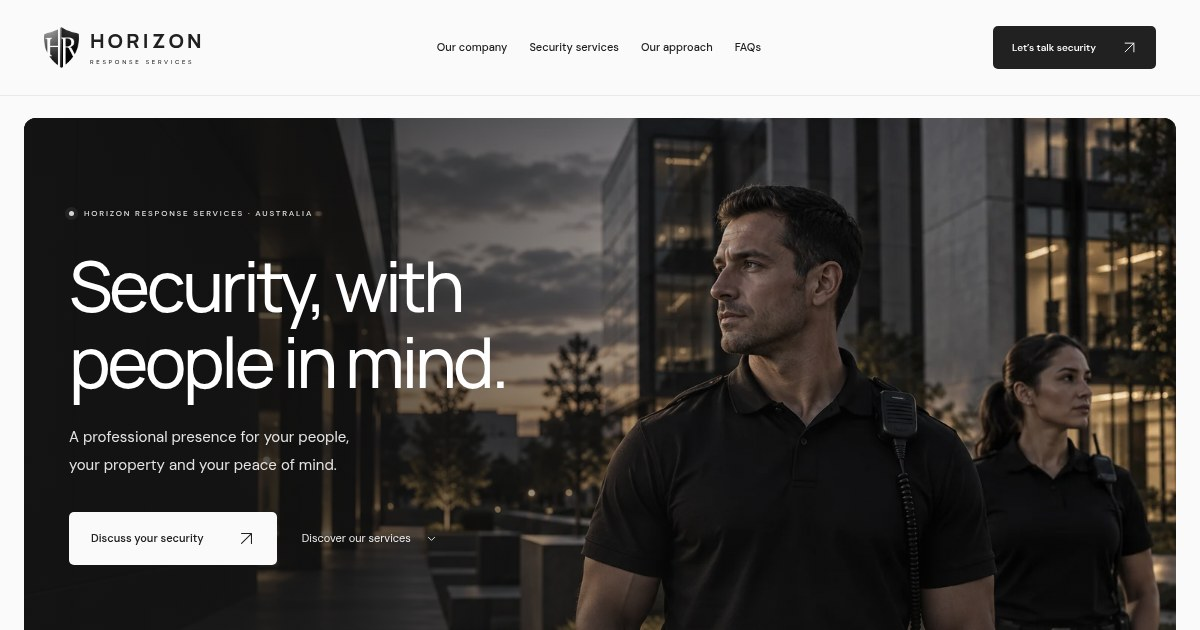
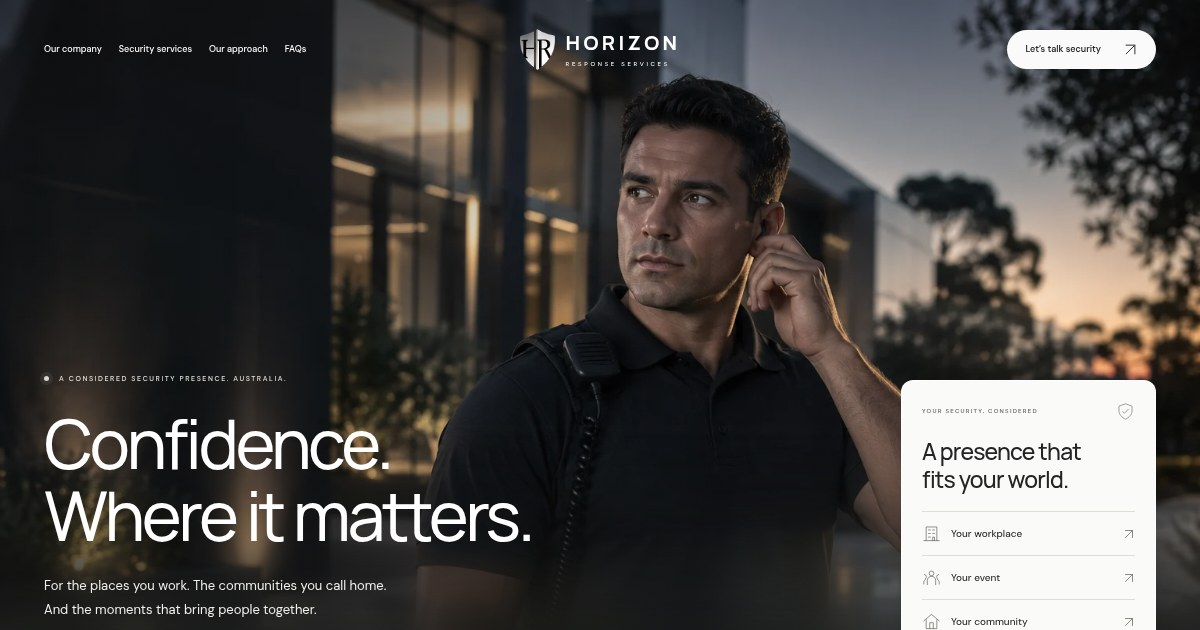
Build immersive portrait hero from reviewed motion reference

diff --git a/src/style.css b/src/style.css
@@ -25,3 +25,11 @@
 @media(max-width:700px){.hero{display:flex;flex-direction:column;min-height:0;background:#222}.hero-inner{order:1;padding:38px 24px 34px;background:#222}.hero-photo{position:relative;inset:auto;order:2;height:360px;object-position:68% 28%;z-index:0}.hero-shade{display:none}.hero-bottom{position:relative;order:3;left:auto;right:auto;bottom:auto;padding:20px 24px;background:#222;border-top:0}.hero h1{margin-top:24px}.hero-actions{margin-top:25px;gap:18px}.hero-inner>p{margin-top:20px}.hero-bottom>p{font-size:9px}}
 @media(max-width:370px){.hero-inner{padding:33px 20px 30px}.hero-photo{height:320px}.hero-bottom{padding:19px 20px}.hero-bottom>p{font-size:8px}}
 .privacy-promise p>span{color:#606060}
+/* Immersive hero: editorial portrait, low-set type and a useful service selector. */
+.site-header{position:fixed;inset:0 0 auto;height:100px;border-bottom:1px solid transparent;background:transparent;color:white;backdrop-filter:none;transition:background .3s,color .3s,border-color .3s}.site-header .header-inner{display:grid;grid-template-columns:1fr auto 1fr;gap:25px}.site-header .brand{grid-column:2;grid-row:1;justify-self:center}.site-header .brand>img{filter:invert(1)}.site-header .desktop-nav{grid-column:1;grid-row:1;justify-self:start;font-size:10px;gap:22px}.site-header .desktop-nav>a:hover{border-color:#ddd}.site-header .header-cta{grid-column:3;grid-row:1;justify-self:end;background:#fafafa;color:#222;border-radius:25px;padding:12px 18px;font-size:9px;gap:22px}.site-header.scrolled{background:#fafafaf5;backdrop-filter:blur(16px);color:#202020;border-bottom-color:#e3e3e3}.site-header.scrolled .brand>img{filter:none}.site-header.scrolled .header-cta{background:#222;color:#fff}.immersive-hero{width:100%;max-width:none;margin:0;min-height:800px;height:100svh;max-height:1080px;border-radius:0;display:block;background:#1b1b1b}.immersive-hero .hero-photo{position:absolute;inset:0;width:100%;height:100%;object-position:57% 36%;z-index:-3;animation:portrait-drift 18s ease-in-out infinite alternate}.immersive-hero .hero-shade{position:absolute;inset:0;display:block;background:linear-gradient(0deg,#111b 0%,#1113 35%,transparent 60%,#1115),linear-gradient(90deg,#1115,transparent 55%);z-index:-2}.hero-atmosphere{position:absolute;bottom:0;left:0;right:0;height:47%;backdrop-filter:blur(16px);-webkit-backdrop-filter:blur(16px);background:linear-gradient(0deg,#30302a85,#30302a12);mask-image:linear-gradient(transparent,#000 70%);-webkit-mask-image:linear-gradient(transparent,#000 70%);z-index:-1;pointer-events:none}.immersive-hero .hero-inner{position:absolute;bottom:112px;left:max(64px,calc((100vw - 1280px)/2));right:auto;width:min(720px,58vw);padding:0;background:transparent;order:unset}.immersive-hero .hero-eyebrow{font-size:7px;letter-spacing:1.6px;color:#e0e0d9}.immersive-hero h1{font-size:clamp(60px,5.5vw,86px);letter-spacing:-4px;line-height:1.06;font-weight:450;max-width:none;margin-top:24px;animation:arrive 1s .2s both}.immersive-hero .hero-inner>p{font-size:14px;line-height:1.8;color:#efefeb;margin-top:23px;max-width:580px}.immersive-hero .hero-actions{margin-top:27px;gap:25px;flex-direction:row;align-items:center}.immersive-hero .hero-actions>.button{padding:16px 23px;border-radius:25px;font-size:11px;gap:26px}.immersive-hero .hero-text-link{font-size:10px;gap:11px}.hero-panel{position:absolute;right:max(64px,calc((100vw - 1280px)/2));bottom:110px;width:280px;padding:23px 23px 0;background:#fafaf9;color:#242424;border:1px solid #fff9;border-radius:12px;box-shadow:0 18px 50px #0002;animation:panel-enter .9s .5s both}.hero-panel-heading{display:flex;align-items:center;justify-content:space-between;gap:13px}.hero-panel-heading>span{font-size:6px;letter-spacing:1.25px;font-weight:550;color:#686860}.hero-panel-heading>svg{height:19px;width:19px;stroke-width:1.2;color:#7a7a70}.hero-panel>h2{font-size:25px;line-height:1.25;letter-spacing:-.8px;font-weight:500;margin-top:16px}.hero-panel-options{margin-top:21px}.hero-panel-options>button{display:flex;align-items:center;gap:10px;border-top:1px solid #deded7;padding:13px 0;width:100%;background:transparent;text-align:left;font-size:10px;font-weight:450}.hero-panel-options>button>svg:first-child{height:19px;width:19px;stroke-width:1.2;color:#68685e}.hero-panel-options>button>svg:last-child{height:12px;width:12px;margin-left:auto;color:#636359;transition:transform .2s}.hero-panel-options>button:hover>svg:last-child{transform:translate(2px,-2px)}.hero-panel-options>button:hover{color:#000}.hero-panel-footer{display:flex;align-items:center;justify-content:space-between;gap:13px;font-size:8px;font-weight:500;padding:17px 0;margin-top:6px;border-top:1px solid #deded7;color:#636359}.hero-panel-footer>svg{height:12px;width:12px}.hero-footnote{position:absolute;bottom:32px;left:max(64px,calc((100vw - 1280px)/2));right:max(64px,calc((100vw - 1280px)/2));display:flex;align-items:center;justify-content:space-between;color:#e4e4dc;gap:20px}.hero-footnote>span{font-size:6px;letter-spacing:1.6px}.hero-footnote>a{height:29px;width:29px;display:grid;place-items:center;border:1px solid #ffffff55;border-radius:50%}.hero-footnote>a>svg{height:13px;width:13px}.hero-motion-toggle{position:absolute;right:max(64px,calc((100vw - 1280px)/2));top:124px;background:#1115;color:#eee;border:1px solid #ffffff3d;backdrop-filter:blur(6px);border-radius:20px;padding:7px 11px;font-size:7px;display:flex;gap:7px;align-items:center;letter-spacing:.3px}.hero-motion-toggle>span{font-size:9px}.hero-motion-paused .hero-photo{animation-play-state:paused}.hero-motion-toggle[hidden]{display:none}@keyframes portrait-drift{from{transform:scale(1.015) translateX(0)}to{transform:scale(1.065) translateX(-.7%)}}@keyframes panel-enter{from{opacity:0;transform:translateY(24px) scale(.97)}to{opacity:1;transform:none}}
+@media(max-width:1200px){.site-header .desktop-nav{gap:17px;font-size:9px}.immersive-hero .hero-inner{left:44px;bottom:103px;width:61vw}.immersive-hero h1{font-size:68px;letter-spacing:-3.5px}.hero-panel{right:44px;bottom:103px;width:255px;padding:21px 20px 0}.hero-panel>h2{font-size:23px}.hero-panel-options{margin-top:17px}.hero-panel-options>button{padding:12px 0}.hero-footnote{left:44px;right:44px;bottom:28px}.hero-motion-toggle{right:44px}.immersive-hero .hero-inner>p{font-size:13px;max-width:500px}}
+@media(max-width:1000px){.site-header{height:90px}.site-header .desktop-nav{font-size:8px;gap:14px}.site-header .header-cta{font-size:8px;gap:14px;padding:11px 14px}.site-header .brand-words{font-size:19px;letter-spacing:3px}.immersive-hero{min-height:780px;max-height:1000px}.immersive-hero .hero-inner{left:32px;bottom:99px;width:60vw}.immersive-hero h1{font-size:60px;letter-spacing:-3px}.immersive-hero .hero-inner>p{font-size:12px;max-width:430px}.hero-panel{right:32px;bottom:99px;width:235px;padding:20px 19px 0}.hero-panel>h2{font-size:22px}.hero-panel-heading>span{font-size:5px;letter-spacing:1px}.hero-panel-options>button{font-size:9px;gap:9px}.hero-panel-footer{font-size:7px;padding:15px 0}.hero-footnote{left:32px;right:32px}.hero-motion-toggle{right:32px;top:111px}.immersive-hero .hero-actions>.button{font-size:10px;padding:15px 20px;gap:20px}}
+@media(min-width:701px) and (max-width:850px){.site-header .header-inner{grid-template-columns:auto 1fr auto;gap:20px}.site-header .brand{grid-column:1;justify-self:start}.site-header .desktop-nav{grid-column:2;justify-self:center;gap:15px}.site-header .desktop-nav>a:nth-child(3),.site-header .desktop-nav>a:nth-child(4){display:none}.immersive-hero h1{font-size:52px;letter-spacing:-2.7px}.immersive-hero .hero-inner{width:57vw}.immersive-hero .hero-inner>p{max-width:360px;font-size:11px}.immersive-hero .hero-inner>p>br{display:none}.hero-panel{width:218px;padding-inline:17px}.hero-panel>h2{font-size:21px}.hero-panel-options>button{font-size:8px}.immersive-hero .hero-text-link{font-size:8px}.immersive-hero .hero-actions{gap:17px}.immersive-hero .hero-actions>.button{font-size:9px;padding:14px 17px;gap:17px}}
+@media(max-width:700px){.site-header{height:80px}.site-header .header-inner{display:flex;justify-content:space-between;gap:20px}.site-header .brand{grid-column:auto;justify-self:auto}.site-header .brand-words{font-size:20px;letter-spacing:3.7px}.site-header .header-cta{display:none}.site-header .menu-toggle{border-color:#ffffff60;color:#fff;background:#2222;backdrop-filter:blur(5px)}.site-header .menu-toggle>span{background:#fff}.site-header.scrolled .menu-toggle{border-color:#ccc;background:transparent;backdrop-filter:none}.site-header.scrolled .menu-toggle>span{background:#222}.site-header:has(.mobile-nav.open){background:#fafafa;color:#222}.site-header:has(.mobile-nav.open) .brand>img{filter:none}.site-header:has(.mobile-nav.open) .menu-toggle{border-color:#ccc;background:transparent}.site-header:has(.mobile-nav.open) .menu-toggle>span{background:#222}.mobile-nav{top:80px;height:calc(100dvh - 80px);color:#222}.immersive-hero{display:block;width:100%;margin:0;border-radius:0;min-height:850px;height:100svh;max-height:1100px}.immersive-hero .hero-photo{position:absolute;inset:0;order:unset;height:100%;width:100%;object-position:65% center;z-index:-3}.immersive-hero .hero-shade{position:absolute;inset:0;display:block;z-index:-2;background:linear-gradient(0deg,#111d,#1117 37%,transparent 66%,#1115)}.hero-atmosphere{height:58%;backdrop-filter:blur(11px);-webkit-backdrop-filter:blur(11px);mask-image:linear-gradient(transparent,#000 65%);-webkit-mask-image:linear-gradient(transparent,#000 65%)}.immersive-hero .hero-inner{position:absolute;left:24px;right:24px;bottom:255px;width:auto;padding:0;order:unset;background:transparent;max-width:none}.immersive-hero .hero-eyebrow{font-size:6px;letter-spacing:1.1px;max-width:320px;line-height:1.7}.immersive-hero h1{font-size:clamp(40px,10.8vw,58px);letter-spacing:-2.4px;line-height:1.08;margin-top:19px;max-width:none}.immersive-hero .hero-inner>p{font-size:12px;line-height:1.8;margin-top:18px;max-width:325px}.immersive-hero .hero-inner>p>br{display:none}.immersive-hero .hero-actions{flex-direction:row;align-items:center;gap:20px;margin-top:22px}.immersive-hero .hero-actions>.button{font-size:10px;gap:18px;padding:14px 18px;border-radius:25px}.immersive-hero .hero-text-link{font-size:9px;gap:7px}.hero-panel{left:24px;right:24px;bottom:56px;width:auto;padding:17px 18px 0;border-radius:10px;animation-delay:.4s}.hero-panel-heading>span{font-size:6px;letter-spacing:1px}.hero-panel-heading>svg{width:17px;height:17px}.hero-panel>h2{font-size:20px;line-height:1.3;letter-spacing:-.6px;margin-top:7px}.hero-panel>h2>br{display:none}.hero-panel-options{display:grid;grid-template-columns:repeat(3,1fr);gap:10px;margin-top:14px}.hero-panel-options>button{display:flex;align-items:center;gap:7px;padding:10px 0;font-size:8px;border-top:1px solid #deded7}.hero-panel-options>button>svg:first-child{width:15px;height:15px;flex-shrink:0}.hero-panel-options>button>svg:last-child{display:none}.hero-panel-footer{font-size:8px;padding:12px 0;margin-top:2px}.hero-panel-footer>svg{height:12px;width:12px}.hero-footnote{left:24px;right:24px;bottom:17px;gap:20px}.hero-footnote>span{font-size:5px;letter-spacing:1px}.hero-footnote>a{height:23px;width:23px}.hero-footnote>a>svg{height:11px;width:11px}.hero-motion-toggle{right:24px;top:102px;font-size:6px;padding:6px 9px;gap:6px}.hero-motion-toggle>span{font-size:8px}}
+@media(max-width:370px){.immersive-hero{min-height:820px}.immersive-hero .hero-inner{left:20px;right:20px;bottom:249px}.immersive-hero h1{font-size:37px;letter-spacing:-2px}.immersive-hero .hero-eyebrow{font-size:5px;letter-spacing:1px}.immersive-hero .hero-inner>p{font-size:11px}.immersive-hero .hero-actions{gap:13px}.immersive-hero .hero-actions>.button{font-size:9px;gap:15px;padding:14px 15px}.immersive-hero .hero-text-link{font-size:8px}.hero-panel{left:20px;right:20px;padding:16px 15px 0;bottom:55px}.hero-panel>h2{font-size:18px}.hero-panel-options{gap:7px}.hero-panel-options>button{font-size:7px;gap:6px}.hero-panel-options>button>svg:first-child{width:14px;height:14px}.hero-footnote{left:20px;right:20px}.hero-motion-toggle{right:20px}}
+@media(prefers-reduced-motion:reduce){.immersive-hero .hero-photo{animation:none!important;transform:none}.hero-panel{animation:none!important}.hero-motion-toggle{display:none}}

diff --git a/index.html b/index.html
@@ -8,7 +8,7 @@
   <meta name="description" content="A stronger presence. A safer horizon. Explore static guards, construction site, warehouse, event, residential and after-hours security with Horizon Response Services, Australia." />
   <meta property="og:type" content="website" />
   <meta property="og:locale" content="en_AU" />
-  <meta property="og:title" content="Horizon Response Services — Security, with people in mind." />
+  <meta property="og:title" content="Horizon Response Services — Confidence, where it matters." />
   <meta property="og:description" content="Professional, people-first security for your places, your operations and your peace of mind. Discover our six specialist security services." />
   <meta property="og:image" content="https://horizon-response2.vercel.app/images/horizon-social.jpg" />
   <link rel="canonical" href="https://horizon-response2.vercel.app/" />
@@ -17,7 +17,7 @@
   <meta property="og:image:height" content="630" />
   <meta name="twitter:card" content="summary_large_image" />
   <link rel="icon" type="image/png" href="/favicon.png" />
-  <link rel="preload" as="image" href="/images/security-team-hero.webp" fetchpriority="high" />
+  <link rel="preload" as="image" href="/images/security-portrait-hero.webp" fetchpriority="high" />
   <script type="application/ld+json">{"@context":"https://schema.org","@type":"Organization","name":"Horizon Response Services","url":"https://horizon-response2.vercel.app/","logo":"https://horizon-response2.vercel.app/images/hr-logo.webp","description":"Security guard, construction site, warehouse, event, residential and after-hours security services in Australia.","knowsAbout":["Static security guards","Construction site security","Warehouse and industrial security","Event security and crowd control","Residential complex and retirement village security","After-hours security services"]}</script>
 </head>
 <body>
@@ -36,7 +36,7 @@
 
 <header class="site-header" id="top"><div class="wrap header-inner"><a href="#top" class="brand" aria-label="Horizon Response Services home"><img src="/images/hr-mark.webp" width="43" height="55" alt=""/><span class="brand-words">HORIZON<span>RESPONSE SERVICES</span></span></a><nav class="desktop-nav" aria-label="Main navigation"><a href="#approach">Our company</a><a href="#services">Security services</a><a href="#difference">Our approach</a><a href="#faqs">FAQs</a></nav><a href="#contact" class="button button-dark header-cta">Let’s talk security <svg aria-hidden="true"><use href="#i-arrow"/></svg></a><button class="menu-toggle" aria-label="Open navigation" aria-expanded="false" aria-controls="mobile-nav"><span></span><span></span></button><nav class="mobile-nav" id="mobile-nav" aria-label="Mobile navigation" inert><a href="#approach">Our company</a><a href="#services">Our services</a><a href="#difference">Our approach</a><a href="#faqs">FAQs</a><a href="#contact">Let’s talk security <svg aria-hidden="true"><use href="#i-arrow"/></svg></a></nav></div></header>
 <main id="main">
-<section class="hero" aria-labelledby="hero-heading"><img class="hero-photo" src="/images/security-team-hero.webp" width="1536" height="1024" alt="Professional security officers outside a modern commercial building" fetchpriority="high"/><div class="hero-shade"></div><div class="hero-inner"><div class="eyebrow hero-eyebrow"><span class="light-dot"></span> HORIZON RESPONSE SERVICES · AUSTRALIA</div><h1 id="hero-heading">Security, with<br>people in mind.</h1><p>A professional presence for your people,<br class="desktop-break"> your property and your peace of mind.</p><div class="hero-actions"><a href="#contact" class="button button-light">Discuss your security <svg aria-hidden="true"><use href="#i-arrow"/></svg></a><a href="#services" class="hero-text-link">Discover our services <svg aria-hidden="true"><use href="#i-chevron"/></svg></a></div></div><div class="hero-bottom"><p>Present when it matters.<br><span>Prepared for your environment.</span></p><a href="#approach" aria-label="Discover the Horizon approach"><span>SCROLL TO DISCOVER</span><svg aria-hidden="true"><use href="#i-chevron"/></svg></a></div></section>
+<section class="hero immersive-hero" aria-labelledby="hero-heading"><img class="hero-photo" src="/images/security-portrait-hero.webp" width="1536" height="1024" alt="Professional security officer attentively observing a modern commercial environment" fetchpriority="high"/><div class="hero-shade"></div><div class="hero-atmosphere" aria-hidden="true"></div><div class="hero-inner"><div class="eyebrow hero-eyebrow"><span class="light-dot"></span> A CONSIDERED SECURITY PRESENCE. AUSTRALIA.</div><h1 id="hero-heading">Confidence.<br>Where it matters.</h1><p>For the places you work. The communities you call home.<br class="desktop-break"> And the moments that bring people together.</p><div class="hero-actions"><a href="#services" class="button button-light">Find your protection <svg aria-hidden="true"><use href="#i-arrow"/></svg></a><a href="#approach" class="hero-text-link">Meet Horizon <svg aria-hidden="true"><use href="#i-chevron"/></svg></a></div></div><aside class="hero-panel" aria-label="Find a security service"><div class="hero-panel-heading"><span>YOUR SECURITY, CONSIDERED</span><svg aria-hidden="true"><use href="#i-shield"/></svg></div><h2>A presence that<br>fits your world.</h2><div class="hero-panel-options"><button data-service="static"><svg aria-hidden="true"><use href="#i-site"/></svg><span>Your workplace</span><svg aria-hidden="true"><use href="#i-arrow"/></svg></button><button data-service="event"><svg aria-hidden="true"><use href="#i-event"/></svg><span>Your event</span><svg aria-hidden="true"><use href="#i-arrow"/></svg></button><button data-service="residential"><svg aria-hidden="true"><use href="#i-home"/></svg><span>Your community</span><svg aria-hidden="true"><use href="#i-arrow"/></svg></button></div><a href="#contact" class="hero-panel-footer">Let’s plan your protection <svg aria-hidden="true"><use href="#i-arrow"/></svg></a></aside><button class="hero-motion-toggle" type="button" aria-label="Pause hero animation" aria-pressed="false"><span aria-hidden="true">II</span> Pause motion</button><div class="hero-footnote"><span>HORIZON RESPONSE SERVICES</span><a href="#approach" aria-label="Scroll to discover the Horizon approach"><svg aria-hidden="true"><use href="#i-chevron"/></svg></a></div></section>
 
 <section class="introduction section-space wrap" id="approach" aria-labelledby="intro-heading"><div class="intro-heading reveal"><div class="section-label"><span></span> A MORE CONSIDERED PRESENCE</div><h2 id="intro-heading">Good security should<br>put people at ease.</h2></div><div class="intro-copy reveal"><p>Behind every workplace, community and event are people who need to feel safe. Our approach starts with understanding them.</p><p>Horizon Response Services brings a practical, people-first focus to security in Australia. We consider how your environment works, what matters to you and where a professional presence can make a difference.</p><a href="#difference" class="text-link">Get to know our approach <svg aria-hidden="true"><use href="#i-arrow"/></svg></a></div><div class="intro-values"><div><span>01</span><h3>Professional in presence.</h3><p>Respectful conduct. Clear responsibilities.</p></div><div><span>02</span><h3>Personal in approach.</h3><p>Your people and your environment, understood.</p></div><div><span>03</span><h3>Practical in planning.</h3><p>Security shaped around the way your site works.</p></div></div></section>
 

diff --git a/src/main.js b/src/main.js
@@ -9,6 +9,25 @@ const services = {
   afterhours: { title: 'After-Hours Security Services', description: 'Quiet hours can bring a different set of security concerns. Discuss an after-hours arrangement that reflects your premises, access requirements and the times when you need a visible presence.', points: ['Evening, overnight and weekend requirements', 'Vulnerable areas and site access points', 'Agreed observation and reporting procedures', 'Handover instructions and escalation contacts'] },
 };
 
+const header = document.querySelector('.site-header');
+let headerFrame = false;
+function updateHeader() { header.classList.toggle('scrolled', window.scrollY > 60); headerFrame = false; }
+window.addEventListener('scroll', () => { if (!headerFrame) { headerFrame = true; requestAnimationFrame(updateHeader); } }, { passive: true });
+updateHeader();
+const heroMotionButton = document.querySelector('.hero-motion-toggle');
+const hero = document.querySelector('.immersive-hero');
+const motionPreference = matchMedia('(prefers-reduced-motion: reduce)');
+heroMotionButton.hidden = motionPreference.matches;
+heroMotionButton.addEventListener('click', () => {
+  const paused = hero.classList.toggle('hero-motion-paused');
+  heroMotionButton.setAttribute('aria-pressed', String(paused));
+  heroMotionButton.setAttribute('aria-label', paused ? 'Play hero animation' : 'Pause hero animation');
+  heroMotionButton.innerHTML = paused ? '<span aria-hidden="true">&gt;</span> Play motion' : '<span aria-hidden="true">II</span> Pause motion';
+});
+motionPreference.addEventListener('change', event => {
+  heroMotionButton.hidden = event.matches;
+});
+
 const menuToggle = document.querySelector('.menu-toggle');
 const mobileNav = document.querySelector('.mobile-nav');
 function closeMenu() {

diff --git a/tests/homepage.spec.js b/tests/homepage.spec.js
@@ -143,3 +143,18 @@ test('two-step brief preserves entries when requirements are edited', async ({ p
   await expect(page.locator('#requirements-panel')).toBeVisible();
   await expect(page.locator('input[name=service]:checked')).toHaveValue('Event Security & Crowd Control');
 });
+
+test('immersive hero motion can pause and its service selector opens the right details', async ({ page }) => {
+  await page.goto('/');
+  const motion = page.locator('.hero-motion-toggle');
+  await motion.click();
+  await expect(motion).toHaveAttribute('aria-pressed', 'true');
+  expect(await page.locator('.hero-photo').evaluate(el => getComputedStyle(el).animationPlayState)).toBe('paused');
+  await motion.click();
+  await expect(motion).toHaveAttribute('aria-pressed', 'false');
+  await page.locator('.hero-panel').getByRole('button', { name: 'Your event' }).click();
+  await expect(page.locator('#dialog-title')).toHaveText('Event Security & Crowd Control');
+  await page.keyboard.press('Escape');
+  await page.locator('#services').scrollIntoViewIfNeeded();
+  await expect(page.locator('.site-header')).toHaveClass(/scrolled/);
+});

diff --git a/README.md b/README.md
@@ -1,6 +1,6 @@
 # Horizon Response
 
-A minimalist, photographic security services homepage built with Vite and locally hosted variable fonts. Includes a custom security-officer hero, six image-led service cards, accessible service dialogs, mobile navigation, reduced-motion support, a two-step security brief builder and an aligned footer. The HR identity uses black, white and neutral greys.
+A minimalist, photographic security services homepage built with Vite and locally hosted variable fonts. Includes a full-viewport security portrait hero with overlay navigation, a soft blurred foreground, staged text entrance, subtle photograph motion with a pause control and a working service selector; six image-led service cards, accessible service dialogs, mobile navigation, reduced-motion support, a two-step security brief builder and an aligned footer. The HR identity uses black, white and neutral greys. The immersive hero composition was informed by a visual review of the public Pinterest reference at https://www.pinterest.com/pin/713609503496683293/. The hero uses a newly generated photograph animated in CSS, not the reference footage.
 
 The brief builder guides visitors through service/site requirements and contact details, then creates a local downloadable or copyable brief. It does not submit an enquiry or persist personal data. A transparent PNG of the two hero security officers is available in `public/images/security-officers-transparent.png`.
 
